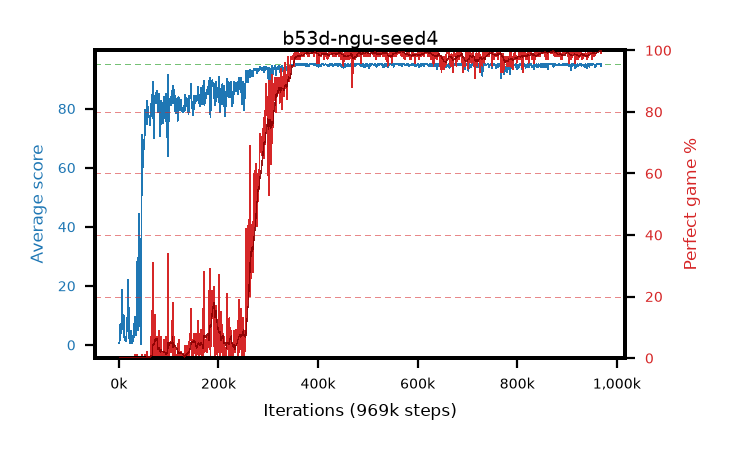
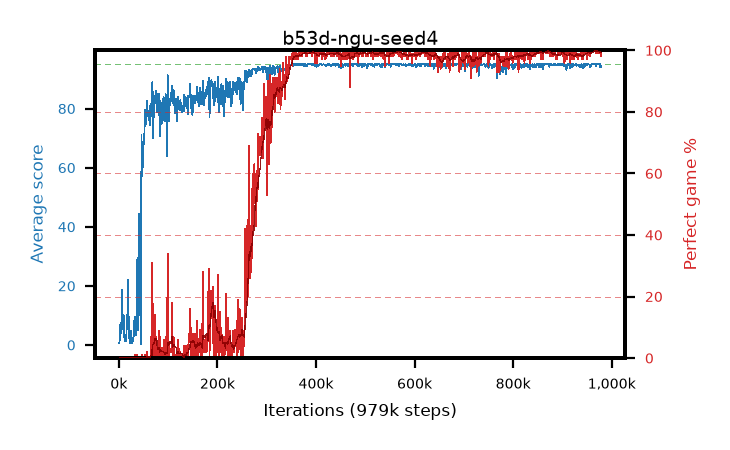
live pictures of 4 arm(s)

diff --git a/results/b53d-ngu-seed4/b53d-ngu-seed4.md b/results/b53d-ngu-seed4/b53d-ngu-seed4.md
@@ -1,6 +1,6 @@
 # b53d-ngu-seed4
 
-step **969,000** · 969 evals · trailing **94.8** · peak **94.92** @572,000 · sef **68.8** · best30 **99.4** @872,000
+step **979,000** · 979 evals · trailing **94.83** · peak **94.92** @572,000 · sef **69.2** · best30 **99.5** @975,000
 
 ## Config
 
@@ -80,15 +80,15 @@ step **969,000** · 969 evals · trailing **94.8** · peak **94.92** @572,000 ·
 | 2000 | 2.39 | 1.47 | 0.0 | 8.0 | 1.286 | 0.0 | 0.4 |
 | 3000 | 6.99 | 3.31 | 0.0 | 25.0 | 5.34 | 0.0 | 0.4 |
 | ... | ... | ... | ... | ... | ... | ... | ... |
-| 958000 | 94.42 | 94.67 | 37.0 | 95.0 | 192.076 | 99.0 | 0.4 |
-| 959000 | 95.0 | 94.69 | 95.0 | 95.0 | 193.682 | 100.0 | 0.4 |
-| 960000 | 95.0 | 94.69 | 95.0 | 95.0 | 193.703 | 100.0 | 0.4 |
-| 961000 | 95.0 | 94.69 | 95.0 | 95.0 | 193.694 | 100.0 | 0.4 |
-| 962000 | 95.0 | 94.7 | 95.0 | 95.0 | 193.683 | 100.0 | 0.4 |
-| 963000 | 95.0 | 94.71 | 95.0 | 95.0 | 193.687 | 100.0 | 0.4 |
-| 964000 | 95.0 | 94.73 | 95.0 | 95.0 | 193.693 | 100.0 | 0.4 |
-| 965000 | 95.0 | 94.74 | 95.0 | 95.0 | 193.695 | 100.0 | 0.4 |
-| 966000 | 95.0 | 94.77 | 95.0 | 95.0 | 193.696 | 100.0 | 0.4 |
-| 967000 | 95.0 | 94.8 | 95.0 | 95.0 | 193.69 | 100.0 | 0.4 |
 | 968000 | 94.24 | 94.78 | 19.0 | 95.0 | 191.892 | 99.0 | 0.4 |
 | 969000 | 94.98 | 94.8 | 93.0 | 95.0 | 192.66 | 99.0 | 0.4 |
+| 970000 | 95.0 | 94.83 | 95.0 | 95.0 | 193.701 | 100.0 | 0.4 |
+| 971000 | 94.96 | 94.87 | 91.0 | 95.0 | 192.655 | 99.0 | 0.4 |
+| 972000 | 94.93 | 94.87 | 88.0 | 95.0 | 192.633 | 99.0 | 0.4 |
+| 973000 | 95.0 | 94.87 | 95.0 | 95.0 | 193.713 | 100.0 | 0.4 |
+| 974000 | 95.0 | 94.87 | 95.0 | 95.0 | 193.697 | 100.0 | 0.4 |
+| 975000 | 95.0 | 94.9 | 95.0 | 95.0 | 193.7 | 100.0 | 0.4 |
+| 976000 | 94.21 | 94.88 | 16.0 | 95.0 | 191.87 | 99.0 | 0.4 |
+| 977000 | 95.0 | 94.88 | 95.0 | 95.0 | 193.704 | 100.0 | 0.4 |
+| 978000 | 94.19 | 94.85 | 21.0 | 95.0 | 190.805 | 98.0 | 0.4 |
+| 979000 | 94.2 | 94.83 | 15.0 | 95.0 | 191.851 | 99.0 | 0.4 |
